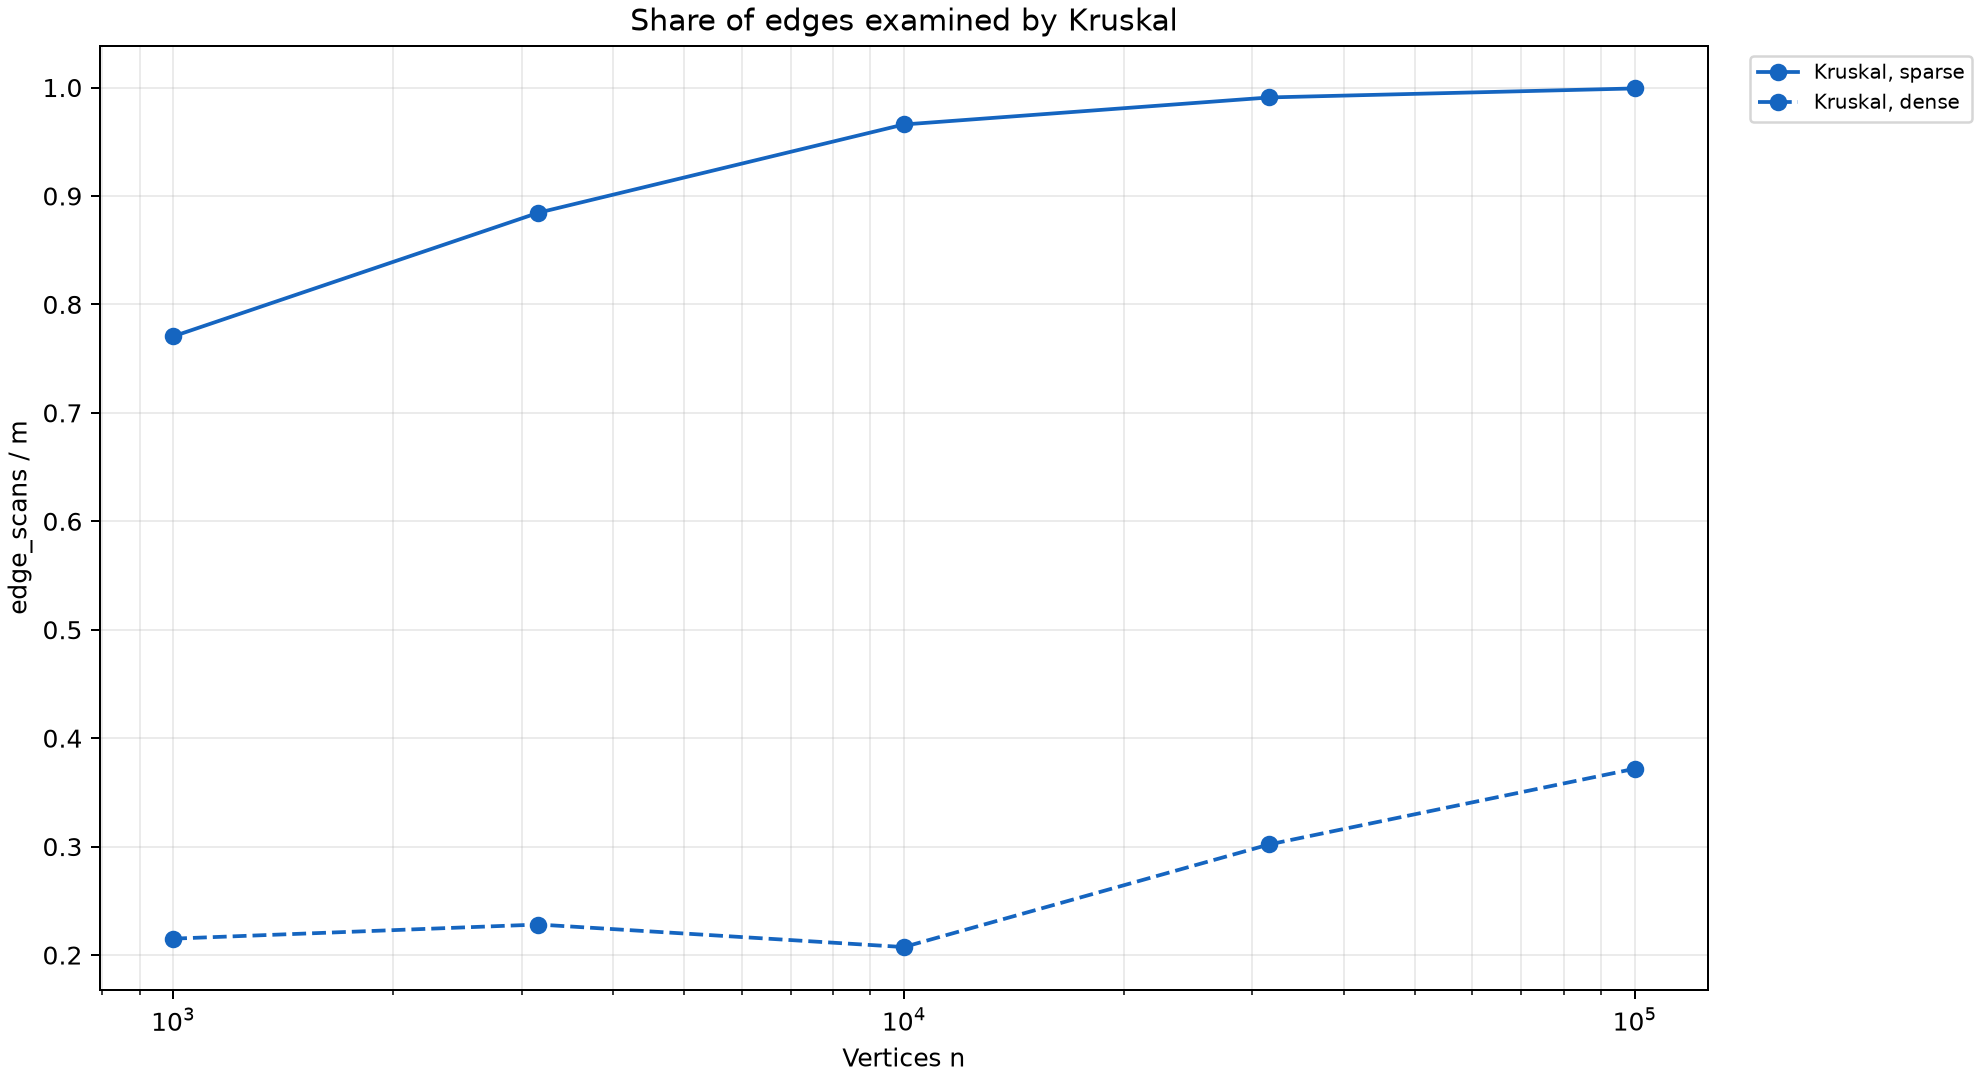
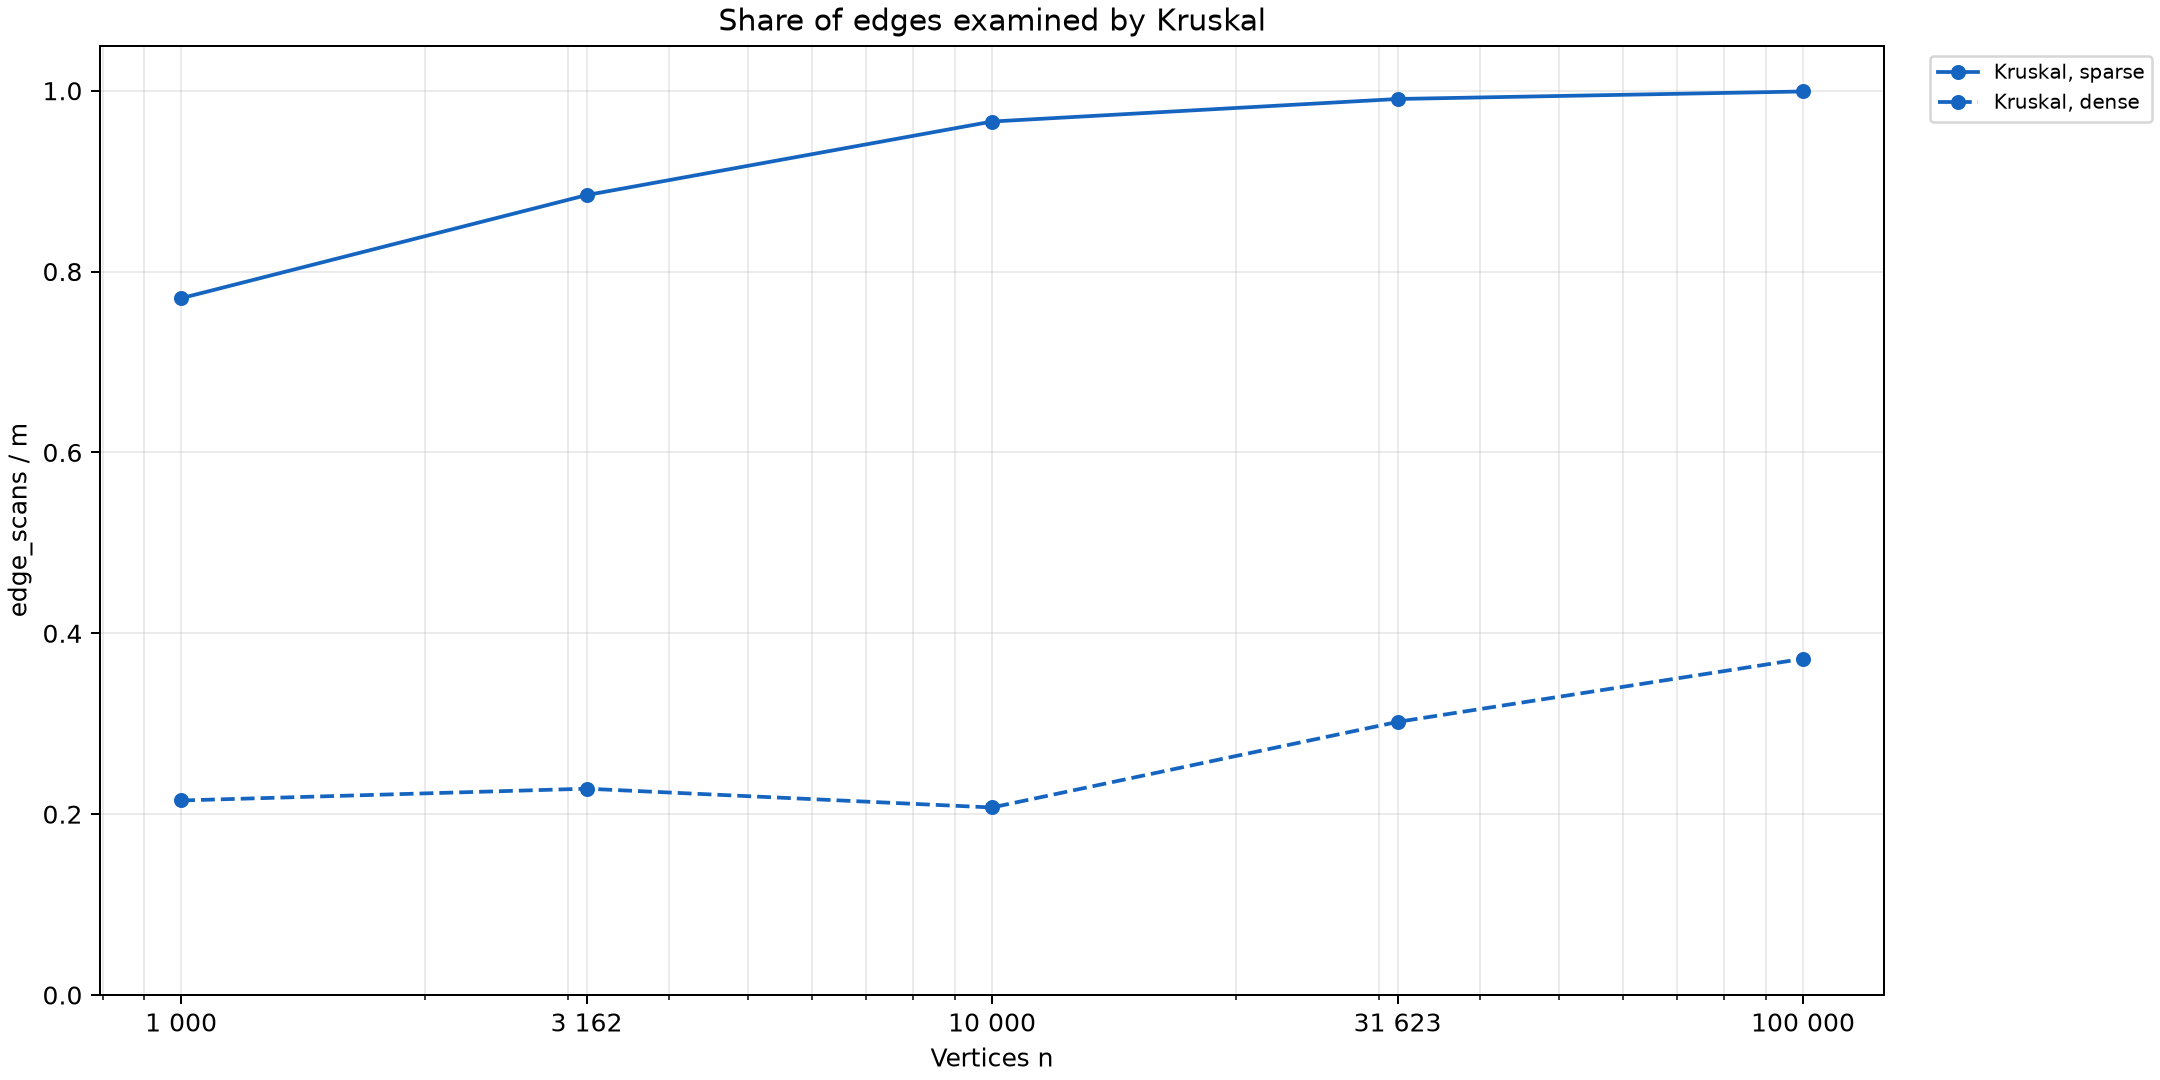
docs(results): refresh plots and analysis

diff --git a/results/analysis.md b/results/analysis.md
@@ -6,8 +6,8 @@
 | --- | --- | --- | --- | --- |
 | Kruskal | sparse | comparisons / (m log2 m) | 0.7447 | 0.9069 |
 | Kruskal | dense | comparisons / (m log2 m) | 0.6662 | 0.9027 |
-| Prim | sparse | edge_scans / (n + m) | 1.6000 | 1.6000 |
-| Prim | dense | edge_scans / (n + m) | 1.9048 | 1.9048 |
+| Prim | sparse | comparisons / (m log2 m) | 1.8291 | 1.9344 |
+| Prim | dense | comparisons / (m log2 m) | 1.8248 | 1.8896 |
 | Kosaraju | sparse | edge_scans / (n + m) | 1.6000 | 1.6000 |
 | Kosaraju | dense | edge_scans / (n + m) | 1.9048 | 1.9048 |
 | Kahn | sparse | edge_scans / (n + m) | 0.8000 | 0.8000 |
@@ -15,7 +15,9 @@
 | DagShortestPath | sparse | edge_scans / (n + m) | 0.8000 | 0.8000 |
 | DagShortestPath | dense | edge_scans / (n + m) | 0.9524 | 0.9524 |
 
-## Kruskal DSU calls per edge
+Prim comparisons include heap work. Its scan ratios alone describe only the linear adjacency traversal.
+
+## Kruskal DSU calls per input edge
 
 | Density | Minimum dsu_ops / m | Maximum dsu_ops / m |
 | --- | --- | --- |
@@ -39,6 +41,10 @@
 
 Combined operations = dsu_ops + edge_scans + comparisons.
 
-Kruskal sorts every edge even when its scan stops early. Its sorting factor belongs to comparisons, not to the edge scan counter.
+Prim and Kosaraju scan 2m adjacency entries. Kahn and DAG relaxation scan m edges each.
 
-DSU call counts measure invocation frequency; they do not measure parent-pointer traversals.
+Kruskal sorts every edge even when its scan stops early. The sorting logarithm belongs to comparisons, not edge_scans. Its edge scan slope can differ from 1 because the examined fraction changes with graph size.
+
+DSU counters measure find calls and successful unions, not parent-pointer traversals. They do not independently verify the inverse-Ackermann bound.
+
+These finite measurements support the theoretical analysis; they do not prove asymptotic complexity.
